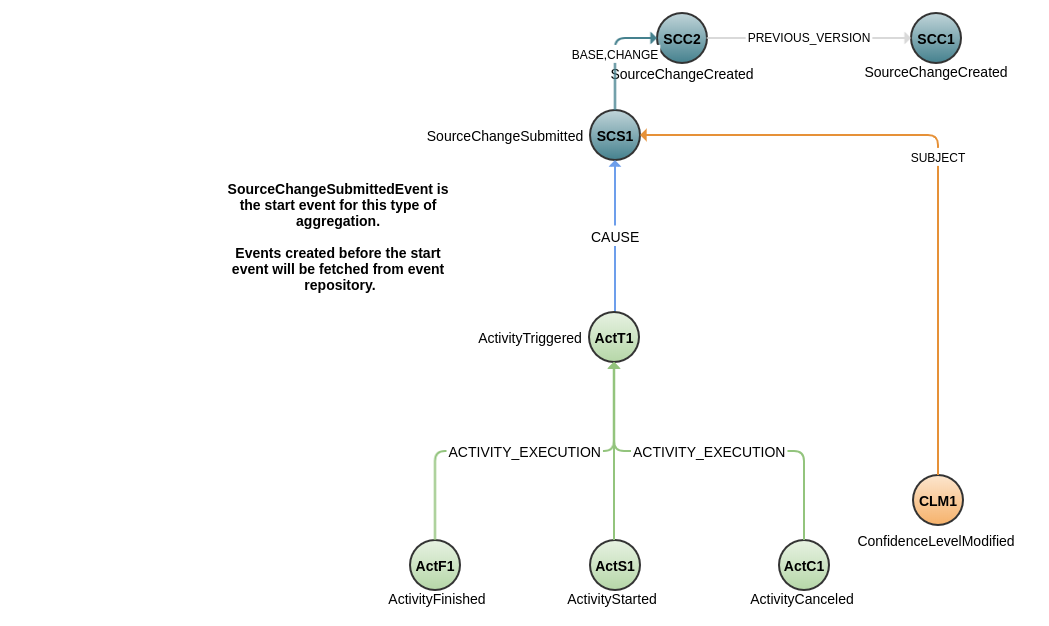
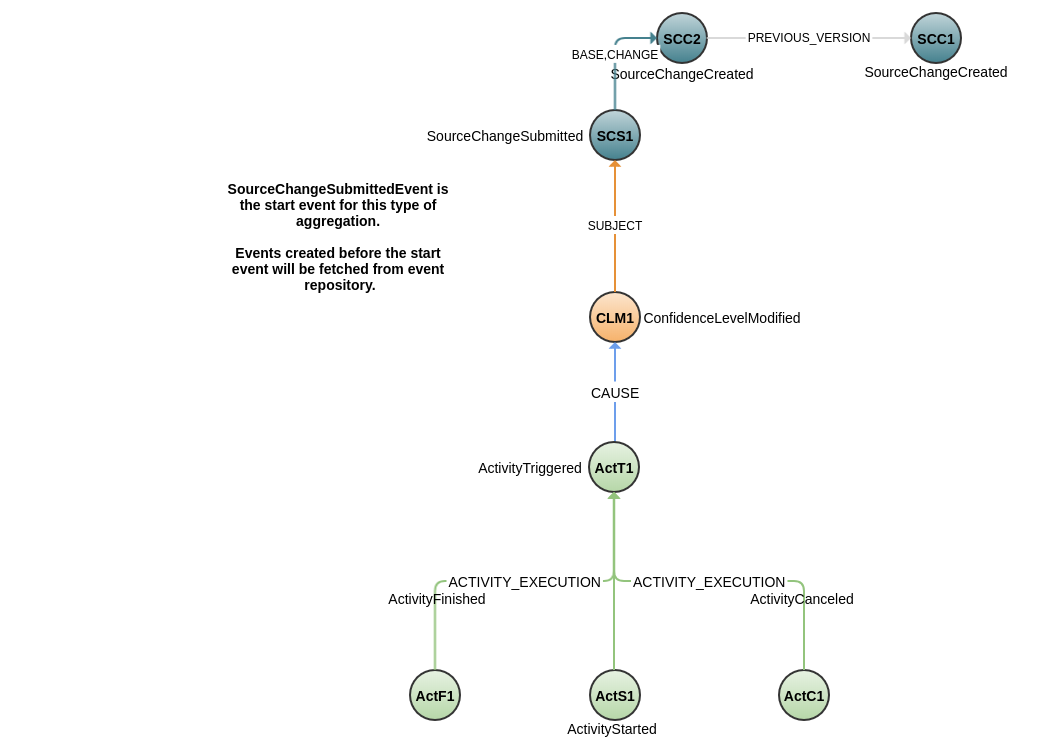
Double event subscription test (#260)
* update tests for to check that no subscription is triggered again if same event is received again
* update linking for SourceChangeRules flow picture

diff --git a/src/functionaltests/java/com/ericsson/ei/subscriptions/trigger/SubscriptionTriggerSteps.java b/src/functionaltests/java/com/ericsson/ei/subscriptions/trigger/SubscriptionTriggerSteps.java
@@ -153,13 +153,33 @@ public class SubscriptionTriggerSteps extends FunctionalTestBase {
 
     @Then("^Rest subscriptions were triggered$")
     public void check_rest_subscriptions_were_triggered() throws Throwable {
+        restSubscriptionsTriggered(1);
+        // clean mock server information about requests
+        mockClient.reset();
+    }
+
+    @When("^I send one previous event again$")
+    public void send_one_previous_event() throws Throwable {
+        List<String> eventNamesToSend = new ArrayList<>();
+        eventNamesToSend.add("event_EiffelArtifactCreatedEvent_3");
+        eventManager.sendEiffelEvents(EIFFEL_EVENTS_JSON_PATH, eventNamesToSend);
+    }
+
+    @When("^No subscription is retriggered$")
+    public void no_subscription_is_retriggered() throws Throwable {
+        restSubscriptionsTriggered(0);
+    }
+
+    private void restSubscriptionsTriggered(int times) throws Throwable {
         LOGGER.debug("Verifying REST requests.");
         List<String> endpointsToCheck = new ArrayList<>(Arrays.asList(REST_ENDPOINT, REST_ENDPOINT_AUTH,
                 REST_ENDPOINT_PARAMS, REST_ENDPOINT_AUTH_PARAMS, REST_ENDPOINT_ROW_BODY));
 
-        assert (allEndpointsGotAtLeastXCalls(endpointsToCheck, 1));
-        for (String endpoint : endpointsToCheck) {
-            assert (requestBodyContainsStatedValues(endpoint));
+        assert (allEndpointsGotAtLeastXCalls(endpointsToCheck, times));
+        if (times > 0) {
+            for (String endpoint : endpointsToCheck) {
+                assert (requestBodyContainsStatedValues(endpoint));
+            }
         }
     }
 
@@ -233,7 +253,8 @@ public class SubscriptionTriggerSteps extends FunctionalTestBase {
         while (!endpointsToCheck.isEmpty() && stopTime > System.currentTimeMillis()) {
             for (String endpoint : endpoints) {
                 String restBodyData = mockClient.retrieveRecordedRequests(request().withPath(endpoint), Format.JSON);
-                if ((new JSONArray(restBodyData)).length() >= expectedCalls) {
+                int actualRestCalls = new JSONArray(restBodyData).length();
+                if (actualRestCalls >= expectedCalls) {
                     endpointsToCheck.remove(endpoint);
                 }
             }

diff --git a/src/main/java/com/ericsson/ei/subscriptionhandler/RunSubscription.java b/src/main/java/com/ericsson/ei/subscriptionhandler/RunSubscription.java
@@ -16,16 +16,16 @@
 */
 package com.ericsson.ei.subscriptionhandler;
 
-import com.ericsson.ei.jmespath.JmesPathInterface;
-import com.fasterxml.jackson.databind.JsonNode;
-import com.fasterxml.jackson.databind.node.ArrayNode;
-
 import java.util.Iterator;
 
 import org.slf4j.Logger;
 import org.slf4j.LoggerFactory;
 import org.springframework.beans.factory.annotation.Autowired;
 import org.springframework.stereotype.Component;
+
+import com.ericsson.ei.jmespath.JmesPathInterface;
+import com.fasterxml.jackson.databind.JsonNode;
+import com.fasterxml.jackson.databind.node.ArrayNode;
 
 /**
  * This class represents the mechanism to fetch the rule conditions from the
@@ -75,13 +75,14 @@ public class RunSubscription {
                         "ID has not been passed for given aggregated object. The subscription will be triggered again.");
             }
 
-            if (subscriptionRepeatFlag == "false" && id != null && subscriptionRepeatDbHandler
-                    .checkIfAggrObjIdExistInSubscriptionAggrIdsMatchedList(subscriptionName, requirementIndex, id)) {
+            if (subscriptionRepeatFlag == "false" && id != null
+                    && subscriptionRepeatDbHandler.checkIfAggrObjIdExistInSubscriptionAggrIdsMatchedList(
+                            subscriptionName, requirementIndex, id)) {
                 LOGGER.info("Subscription has already matched with AggregatedObject Id: " + id + "\nSubscriptionName: "
                         + subscriptionName + "\nand has Subscrption Repeat flag set to: " + subscriptionRepeatFlag);
                 break;
             }
-            
+
             JsonNode requirement = requirementIterator.next();
 
             LOGGER.info("The fulfilled requirement which condition will check is : " + requirement.toString());
